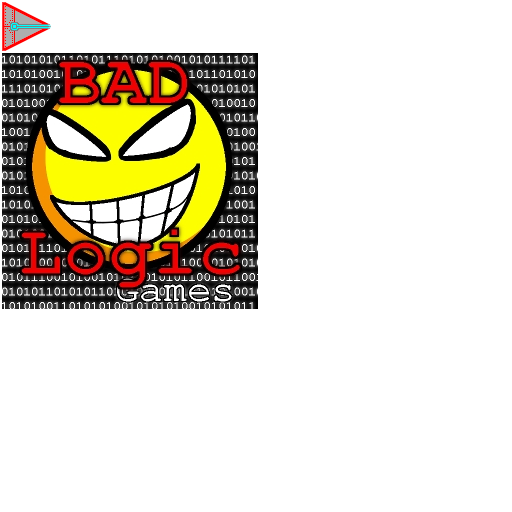
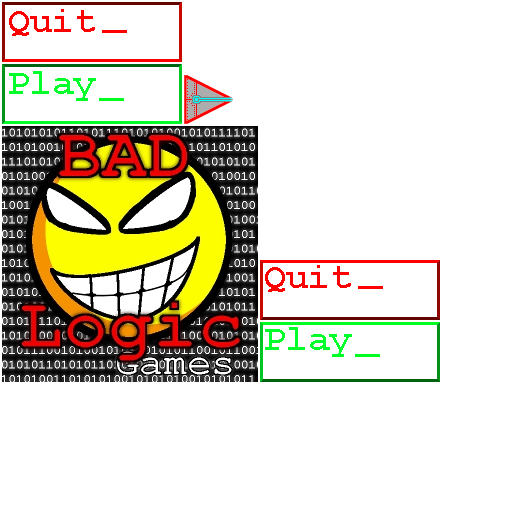
got play and quit buttons made, not working yet

Changed region(s): [[0.0, 0.0, 0.875, 0.75]]

diff --git a/core/src/com/derelictech/lzr/screens/WelcomeScreen.java b/core/src/com/derelictech/lzr/screens/WelcomeScreen.java
@@ -8,10 +8,13 @@ import com.badlogic.gdx.graphics.GL20;
 import com.badlogic.gdx.graphics.OrthographicCamera;
 import com.badlogic.gdx.scenes.scene2d.InputEvent;
 import com.badlogic.gdx.scenes.scene2d.Stage;
+import com.badlogic.gdx.scenes.scene2d.ui.Button;
 import com.badlogic.gdx.scenes.scene2d.ui.Label;
 import com.badlogic.gdx.scenes.scene2d.utils.ClickListener;
+import com.badlogic.gdx.scenes.scene2d.utils.TextureRegionDrawable;
 import com.badlogic.gdx.utils.Scaling;
 import com.badlogic.gdx.utils.viewport.*;
+import com.derelictech.lzr.util.Assets;
 import com.derelictech.lzr.util.Const;
 import com.derelictech.lzr.units.TriangleBeamWeapon;
 import com.derelictech.lzr.util.TextActor;
@@ -28,12 +31,15 @@ public class WelcomeScreen extends AbstractGameScreen{
 
     TextActor welcomeText;
     TextActor lzrText;
+    Button play_btn;
+    Button quit_btn;
+
     TriangleBeamWeapon tri;
 
     public WelcomeScreen(Game game) {
         super(game);
 
-        camera = new OrthographicCamera(Const.WELCOME_VIEWPORT_WIDTH, Const.WELCOME_VIEWPORT_HEIGHT);
+        camera = new OrthographicCamera();
         viewport = new FitViewport(Const.WELCOME_VIEWPORT_WIDTH, Const.WELCOME_VIEWPORT_HEIGHT, camera);
         stage = new Stage(viewport);
         stage.addListener(new ClickListener(){
@@ -58,21 +64,32 @@ public class WelcomeScreen extends AbstractGameScreen{
 
         Gdx.input.setInputProcessor(stage);
 
-        welcomeText = new TextActor(Const.WELCOME_TEXT, 50);
+        welcomeText = new TextActor(Const.WELCOME_TEXT, 80);
         welcomeText.setPosition(100, Gdx.graphics.getHeight() - welcomeText.getHeight());
         welcomeText.font.setColor(1, 0, 0, 1);
         stage.addActor(welcomeText);
 
-        lzrText = new TextActor(Const.GAME_NAME + ".", 100);
-        lzrText.setPosition(Gdx.graphics.getWidth() - lzrText.getWidth() - 100, welcomeText.getY() - 100);
+        lzrText = new TextActor(Const.GAME_NAME + ".", 150);
+        lzrText.setPosition(welcomeText.getX(), welcomeText.getY() - 100);
         lzrText.font.setColor(0, 0.8f, 0.8f, 1);
         stage.addActor(lzrText);
 
+        play_btn = new Button(
+                new TextureRegionDrawable(Assets.inst.getRegion("play_btn_up")),
+                new TextureRegionDrawable(Assets.inst.getRegion("play_btn_dn"))
+        );
+        play_btn.setPosition(lzrText.getX(), lzrText.getY() - 250);
+        stage.addActor(play_btn);
+
+        quit_btn = new Button(
+                new TextureRegionDrawable(Assets.inst.getRegion("quit_btn_up")),
+                new TextureRegionDrawable(Assets.inst.getRegion("quit_btn_dn"))
+        );
+        quit_btn.setPosition(play_btn.getX(), play_btn.getY() - 70);
+        stage.addActor(quit_btn);
+
         tri = new TriangleBeamWeapon();
-//        tri.setPosition(welcomeText.getX() - tri.getOriginX(),
-//                welcomeText.getY() - 100 - lzrText.getHeight() - tri.getOriginY());
-//        tri.setPosition(Gdx.graphics.getWidth()/2, Gdx.graphics.getHeight()/2);
-        tri.setPosition(100, 100);
+        tri.setPosition(1000, 500);
         stage.addActor(tri);
     }
 

diff --git a/core/src/com/derelictech/lzr/util/Const.java b/core/src/com/derelictech/lzr/util/Const.java
@@ -5,8 +5,8 @@ package com.derelictech.lzr.util;
  */
 public class Const {
 
-    public static final float WELCOME_VIEWPORT_WIDTH = 640.0f;
-    public static final float WELCOME_VIEWPORT_HEIGHT = 480.0f;
+    public static final float WELCOME_VIEWPORT_WIDTH = 2000.0f;
+    public static final float WELCOME_VIEWPORT_HEIGHT = 1000.0f;
 
     public static final String WELCOME_TEXT = "Welcome to";
     public static final String GAME_NAME = "LZR";

diff --git a/desktop/src/com/derelictech/lzr/desktop/DesktopLauncher.java b/desktop/src/com/derelictech/lzr/desktop/DesktopLauncher.java
@@ -16,6 +16,10 @@ public class DesktopLauncher {
         }
 
 		LwjglApplicationConfiguration config = new LwjglApplicationConfiguration();
+		config.width = 1900;
+		config.height = 1000;
+		config.x = 0;
+		config.y = 0;
 		new LwjglApplication(new LZR(), config);
 	}
 }
